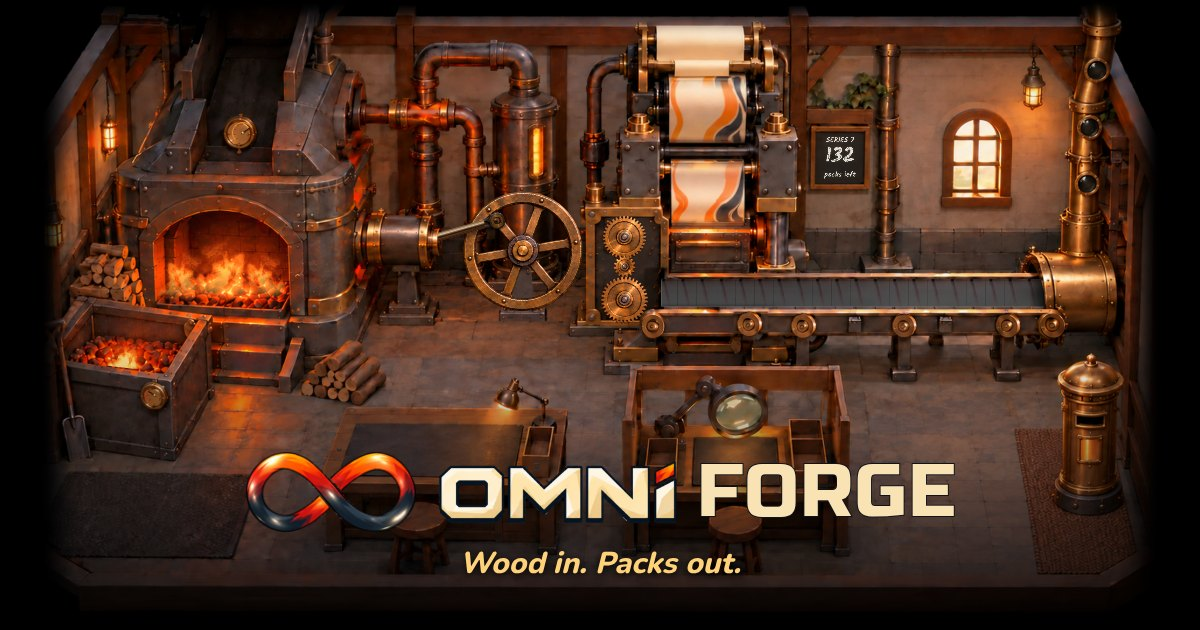
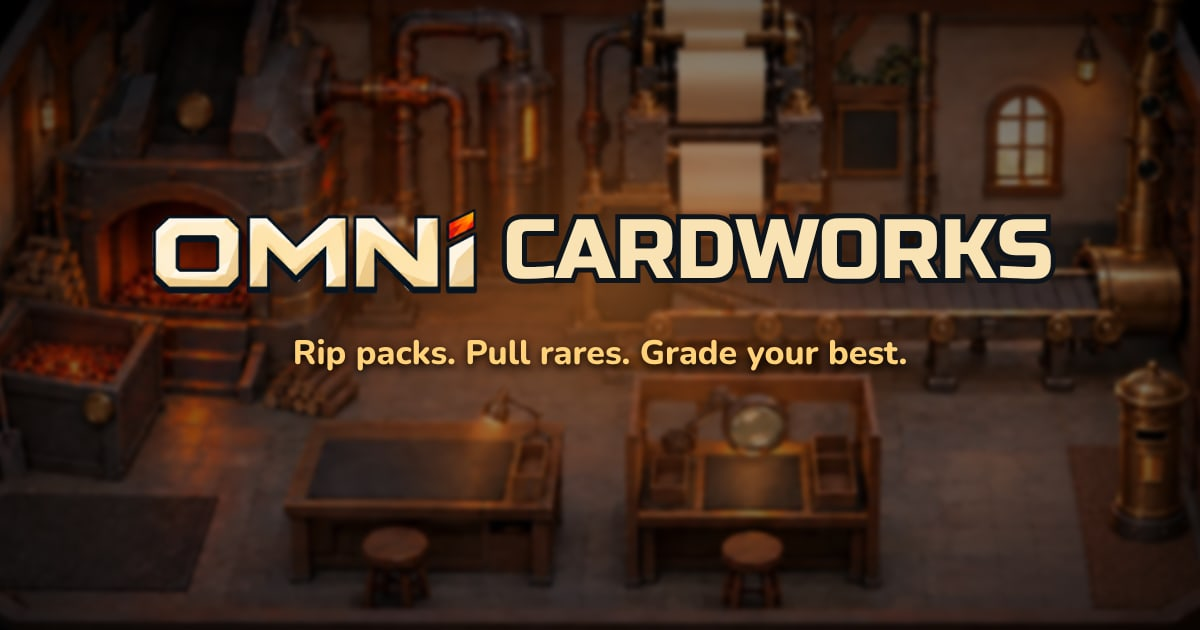
Default link preview: Omni Cardworks (was Omni Forge)
Claude-Session: https://claude.ai/code/session_01LEzX9WUx8sWcSwwRyLeaEz

diff --git a/web/art/factory/forge/index.html b/web/art/factory/forge/index.html
@@ -9,7 +9,7 @@
 <meta property="og:title" content="Omni Cardworks">
 <meta property="og:description" content="Wood and paper in, packs out. Rip packs, pull rares, grade your best. On Robinhood Chain.">
 <meta property="og:url" content="https://web-mu-mocha-95.vercel.app/forge/">
-<meta property="og:image" content="https://web-mu-mocha-95.vercel.app/forge/ui/og.jpg">
+<meta property="og:image" content="https://web-mu-mocha-95.vercel.app/forge/ui/og.jpg?v=2">
 <meta property="og:image:width" content="1200">
 <meta property="og:image:height" content="630">
 <meta property="og:image:alt" content="Omni Cardworks workshop">
